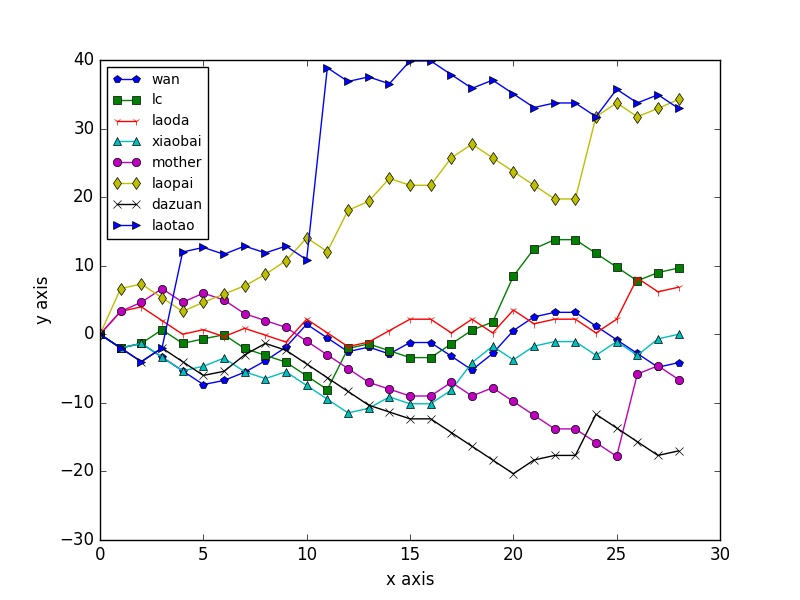
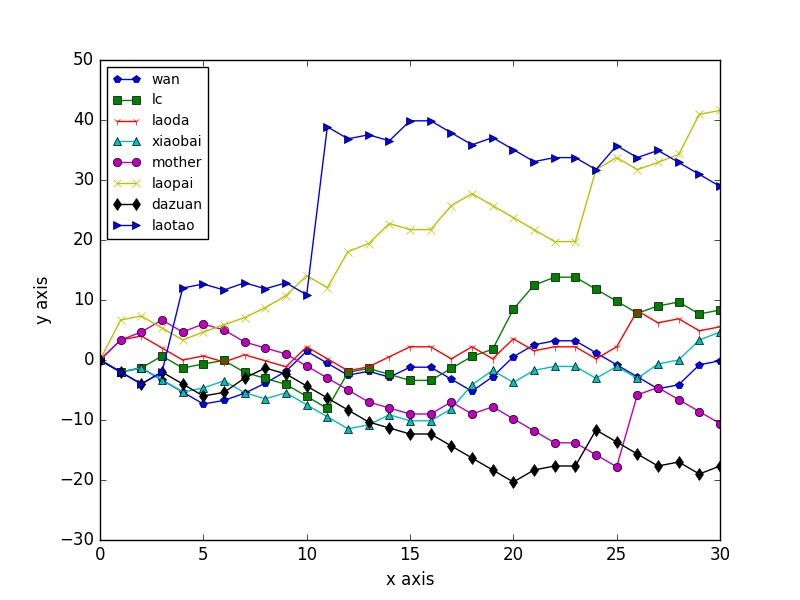
update

diff --git a/plot.py b/plot.py
@@ -16,7 +16,7 @@ def generate_plot(players, pond, matches, teams, bets):
             for player_name in players:
                 player_score_list[player_name].append(report[player_name])
     player_plot_list = []
-    style_list = ['->', '-x', '-d', '-o', '-^', '-1', '-s', '-p']
+    style_list = ['->', '-d', '-x', '-o', '-^', '-1', '-s', '-p']
     for player_name in players:
         player_plot_list.append(pl.plot(
                                     range(len(player_score_list[player_name])),

diff --git a/README.md b/README.md
@@ -1,23 +1,63 @@
 # E cup guess competition report
 ## real-time ranking
-2016-06-21 11:27:13
+2016-06-22 01:54:03
 
 |rank|name|score|
 |:---:|:---:|:---:|
-|1|laopai|34.27|
-|2|laotao|32.93|
-|3|lc|9.67|
-|4|laoda|6.87|
-|5|xiaobai|-0.00|
-|6|wan|-4.13|
-|7|mother|-6.60|
-|8|dazuan|-17.00|
+|1|laopai|41.60|
+|2|laotao|28.93|
+|3|lc|8.33|
+|4|laoda|5.53|
+|5|xiaobai|4.67|
+|6|wan|-0.13|
+|7|mother|-10.60|
+|8|dazuan|-17.67|
 
 ## Pond
-563.00
+558.33
 
 ## History
 ![image](https://github.com/Anserw/E_Cup/blob/master/plot.jpg)
+### 2016062200 NorthernIreland 0 : 1 Germany
+- handicap: 1.5
+- scorer: laotao
+- owners:
+ - NorthernIreland: laopai
+ - Germany: dazuan
+
+
+|name|guess|score change|
+|:---:|:---:|:---:|
+|wan|NorthernIreland|3.33|
+|lc|Germany|-2.00|
+|laoda|Germany|-2.00|
+|xiaobai|NorthernIreland|3.33|
+|mother|Germany|-2.00|
+|laopai|NorthernIreland|6.67|
+|dazuan|Germany|-2.00|
+|laotao|Germany|-2.00|
+|Pond|..|-3.33|
+
+### 2016062200 Ukraine 0 : 1 Poland
+- handicap: 0.5
+- scorer: laotao
+- owners:
+ - Ukraine: dazuan
+ - Poland: xiaobai
+
+
+|name|guess|score change|
+|:---:|:---:|:---:|
+|wan|Poland|0.67|
+|lc|Poland|0.67|
+|laoda|Poland|0.67|
+|xiaobai|Poland|1.33|
+|mother|Ukraine|-2.00|
+|laopai|Poland|0.67|
+|dazuan|Poland|1.33|
+|laotao|Ukraine|-2.00|
+|Pond|..|-1.33|
+
 ### 2016062103 Russia 0 : 3 Welsh
 - handicap: 0
 - scorer: laotao
